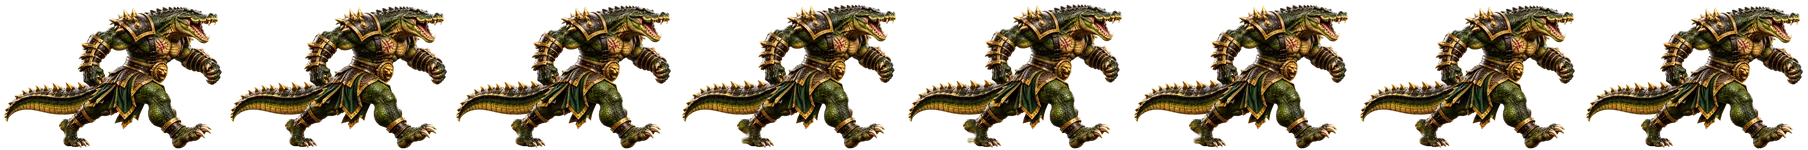
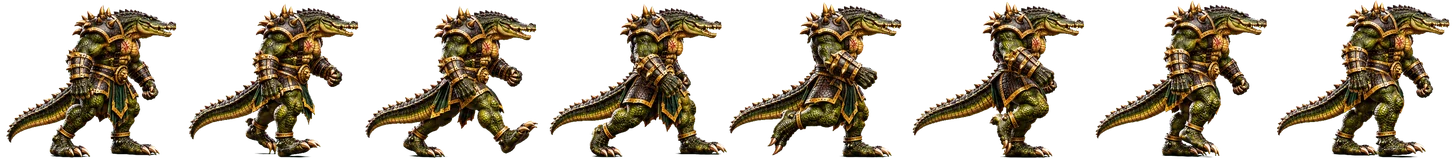
V2 preview 10.26: crocodile upgraded moves (not live)
Claude-Session: https://claude.ai/code/session_01Wp8cgZvzavvyA9CxcdgKRp

diff --git a/game/js/sprites-hd.js b/game/js/sprites-hd.js
@@ -1,2 +1,2 @@
 // High-detail fighter frames (frames-hd/), used on large/sharp screens. Same layout as SPRITES.
-const SPRITES_HD={"badger":{"s":2.0,"anims":{"idle":[16,363,425,20,211],"walk_forward":[8,301,413,70,205],"walk_back":[8,301,413,70,205],"run":[8,301,413,70,205],"block":[6,374,428,21,212],"attack_light":[8,423,419,103,208],"bite":[8,364,423,92,210],"claw_swipe":[6,423,419,103,208],"attack_heavy":[8,375,518,92,257],"uppercut":[8,423,419,103,208],"pounce":[8,364,423,92,210],"special_earth_slam":[7,375,518,92,257],"shadow_rampage":[10,423,419,103,208],"victory":[8,283,476,70,236],"jump":[7,370,409,96,203],"crouch":[4,370,409,96,203],"hit_light":[4,363,423,20,210],"hit_heavy":[6,363,423,20,210],"knockdown":[9,586,417,85,207],"knockdown_getup":[6,339,413,86,205],"defeat":[5,586,417,85,207]}},"crocodile":{"s":2.0,"anims":{"idle":[16,658,534,187,264],"walk_forward":[8,755,501,210,247],"walk_back":[8,755,501,210,247],"run":[8,755,501,210,247],"block":[6,617,527,168,261],"attack_light":[8,751,527,215,261],"bite":[8,682,533,187,264],"special_pounce":[6,751,527,215,261],"attack_heavy":[8,777,555,197,275],"uppercut":[7,777,555,197,275],"victory":[8,682,533,187,264],"jump":[7,617,527,168,261],"hit_light":[4,653,531,187,263],"hit_heavy":[6,653,531,187,263],"knockdown":[9,975,530,141,263],"knockdown_getup":[6,975,530,141,263],"defeat":[5,975,530,141,263]}},"elephant":{"s":2.0,"anims":{"idle":[16,725,684,177,339],"walk_forward":[8,788,690,175,341],"walk_back":[8,788,690,175,341],"run":[8,788,690,175,341],"block":[6,717,696,179,344],"attack_light":[8,1010,683,214,338],"bite":[8,768,683,185,338],"special_pounce":[6,1010,683,214,338],"attack_heavy":[8,1018,727,253,360],"uppercut":[7,1018,727,253,360],"victory":[8,768,683,185,338],"jump":[7,717,696,179,344],"hit_light":[4,724,682,178,337],"hit_heavy":[6,724,682,178,337],"knockdown":[9,1092,696,385,345],"knockdown_getup":[6,1092,696,385,345],"defeat":[5,1092,696,385,345]}},"grizzly":{"s":2.0,"anims":{"idle":[16,484,632,126,314],"walk_forward":[8,561,633,92,314],"walk_back":[8,561,633,92,314],"run":[8,561,633,92,314],"block":[6,518,624,129,310],"attack_light":[8,587,631,161,313],"bite":[8,511,630,132,313],"special_pounce":[6,587,631,161,313],"attack_heavy":[8,570,632,142,314],"uppercut":[7,570,632,142,314],"victory":[8,570,632,142,314],"jump":[7,518,624,129,310],"hit_light":[4,485,629,127,312],"hit_heavy":[6,485,629,127,312],"knockdown":[9,804,634,94,315],"knockdown_getup":[6,804,634,94,315],"defeat":[5,804,634,94,315]}},"hippo":{"s":2.0,"anims":{"idle":[16,743,653,181,323],"walk_forward":[8,458,633,110,313],"walk_back":[8,458,633,110,313],"run":[8,458,633,110,313],"block":[6,684,640,170,316],"attack_light":[8,1009,649,213,321],"bite":[8,788,652,189,323],"special_pounce":[6,1009,649,213,321],"attack_heavy":[8,571,745,156,369],"uppercut":[7,571,745,156,369],"victory":[8,486,742,120,368],"jump":[7,532,648,126,320],"hit_light":[4,747,650,184,322],"hit_heavy":[6,747,650,184,322],"knockdown":[9,1058,681,164,338],"knockdown_getup":[6,552,632,123,312],"defeat":[5,1058,681,164,338]}},"hyena":{"s":2.0,"anims":{"idle":[16,337,491,83,243],"walk_forward":[8,397,486,111,241],"walk_back":[8,397,486,111,241],"run":[8,397,486,111,241],"block":[6,400,486,100,241],"attack_light":[8,451,479,112,238],"bite":[8,355,489,87,243],"special_pounce":[6,355,489,87,243],"attack_heavy":[8,398,431,99,214],"uppercut":[7,451,479,112,238],"victory":[8,355,489,87,243],"jump":[7,400,486,100,241],"hit_light":[4,338,488,84,242],"hit_heavy":[6,338,488,84,242],"knockdown":[9,633,490,78,243],"knockdown_getup":[6,633,490,78,243],"defeat":[5,633,490,78,243]}},"jaguar":{"s":2.0,"anims":{"idle":[16,539,506,129,251],"walk_forward":[8,406,473,72,234],"walk_back":[8,406,473,72,234],"run":[8,406,473,72,234],"block":[6,354,501,25,248],"attack_light":[8,483,488,131,242],"bite":[8,558,504,129,250],"special_pounce":[6,483,488,131,242],"attack_heavy":[8,581,421,132,208],"uppercut":[7,581,421,132,208],"victory":[8,558,504,129,250],"jump":[7,354,501,25,248],"hit_light":[4,537,504,128,250],"hit_heavy":[6,537,504,128,250],"knockdown":[9,719,518,244,257],"knockdown_getup":[6,719,518,244,257],"defeat":[5,719,518,244,257]}},"leopard":{"s":2.0,"anims":{"idle":[16,471,515,22,255],"walk_forward":[8,307,485,87,240],"walk_back":[8,307,485,87,240],"run":[8,307,485,87,240],"dash":[4,307,485,87,240],"crouch":[3,428,517,102,256],"block":[6,443,509,31,253],"attack_light":[8,482,494,122,245],"bite":[8,482,514,22,255],"special_pounce":[6,482,494,122,245],"special_b":[8,482,514,22,255],"special_c":[5,482,494,122,245],"special_d":[14,482,494,122,245],"ultra_move":[5,452,555,97,276],"attack_heavy":[8,452,555,97,276],"uppercut":[7,452,555,97,276],"victory":[8,375,543,102,269],"jump":[7,428,517,102,256],"hit_light":[4,470,513,22,255],"hit_heavy":[6,470,513,22,255],"knockdown":[9,868,555,240,276],"knockdown_getup":[6,432,450,101,223],"defeat":[5,868,555,240,276]}},"lion":{"s":2.0,"anims":{"idle":[16,386,563,98,271],"walk_forward":[8,239,525,65,261],"walk_back":[8,239,525,65,261],"run":[8,239,525,65,261],"block":[6,382,412,96,204],"attack_light":[8,740,471,151,234],"bite":[8,740,471,151,234],"special_pounce":[6,740,471,151,234],"attack_heavy":[8,463,623,109,309],"uppercut":[7,463,623,109,309],"victory":[8,357,530,91,263],"jump":[7,452,422,111,209],"hit_light":[4,367,533,94,265],"hit_heavy":[6,367,533,94,265],"knockdown":[9,694,536,268,267],"knockdown_getup":[5,751,565,269,271],"defeat":[5,694,536,268,267]}},"tiger":{"s":2.0,"anims":{"idle":[16,499,538,126,267],"walk_forward":[8,508,526,125,261],"walk_back":[8,508,526,125,261],"run":[8,508,526,125,261],"block":[6,483,530,120,263],"attack_light":[8,520,524,132,260],"bite":[8,518,537,127,266],"special_pounce":[6,520,524,132,260],"attack_heavy":[8,713,548,164,272],"uppercut":[7,713,548,164,272],"victory":[8,459,544,114,270],"jump":[7,623,588,160,292],"hit_light":[4,496,536,126,266],"hit_heavy":[6,496,536,126,266],"knockdown":[9,750,543,261,270],"knockdown_getup":[6,600,526,141,261],"defeat":[5,750,543,261,270]}},"wolf":{"s":2.0,"anims":{"idle":[16,409,498,107,247],"walk_forward":[8,467,408,96,202],"walk_back":[8,467,408,96,202],"run":[8,467,408,96,202],"block":[6,404,490,104,244],"attack_light":[8,445,398,123,197],"bite":[8,447,340,119,168],"special_pounce":[6,447,340,119,168],"attack_heavy":[8,363,395,93,196],"uppercut":[7,363,395,93,196],"victory":[8,447,340,119,168],"jump":[7,404,490,104,244],"hit_light":[4,404,497,104,247],"hit_heavy":[6,404,497,104,247],"knockdown":[9,670,503,243,250],"knockdown_getup":[6,670,503,243,250],"defeat":[5,670,503,243,250]}},"majic":{"s":2.0,"anims":{"idle":[16,742,799,187,396],"walk_forward":[8,818,805,185,399],"walk_back":[8,818,805,185,399],"run":[8,818,805,185,399],"dash":[4,818,805,185,399],"crouch":[3,783,702,200,348],"block":[6,739,792,62,393],"attack_light":[8,808,714,216,354],"bite":[8,773,798,193,396],"special_pounce":[6,773,798,193,396],"special_b":[6,808,714,216,354],"special_c":[5,773,798,193,396],"special_d":[5,749,763,180,379],"ultra_move":[10,808,714,216,354],"attack_heavy":[8,749,763,180,379],"uppercut":[7,749,763,180,379],"victory":[8,823,812,205,403],"jump":[7,783,702,200,348],"hit_light":[4,746,795,190,395],"hit_heavy":[6,746,795,190,395],"knockdown":[9,1082,819,398,407],"knockdown_getup":[6,793,780,206,387],"defeat":[5,1082,819,398,407]}},"snake":{"s":2.0,"anims":{"idle":[16,498,552,122,274],"walk_forward":[8,525,525,147,261],"walk_back":[8,525,525,147,261],"run":[8,525,525,147,261],"crouch":[3,533,495,126,245],"block":[6,469,547,25,272],"attack_light":[8,532,537,123,267],"bite":[8,498,551,122,274],"special_pounce":[6,498,551,122,274],"special_b":[6,532,537,123,267],"special_c":[5,498,551,122,274],"special_d":[5,600,546,143,271],"ultra_move":[10,532,537,123,267],"attack_heavy":[8,600,546,143,271],"uppercut":[7,600,546,143,271],"victory":[8,412,570,105,283],"jump":[7,533,495,126,245],"hit_light":[4,498,550,122,273],"hit_heavy":[6,498,550,122,273],"knockdown":[9,778,548,271,272],"knockdown_getup":[6,609,538,125,267],"defeat":[5,778,548,271,272]}},"eagle":{"s":2.0,"anims":{"idle":[16,486,526,121,261],"walk_forward":[8,478,518,190,257],"walk_back":[8,478,518,190,257],"run":[8,478,518,190,257],"crouch":[3,483,520,108,258],"block":[6,483,520,108,258],"attack_light":[8,500,526,124,261],"bite":[8,502,525,125,260],"special_pounce":[6,502,525,125,260],"special_b":[6,500,526,124,261],"ultra_move":[10,500,526,124,261],"attack_heavy":[8,497,530,123,263],"uppercut":[7,497,530,123,263],"victory":[8,486,526,121,261],"jump":[7,483,520,108,258],"hit_light":[4,487,522,122,259],"hit_heavy":[6,487,522,122,259],"knockdown":[9,692,536,255,266],"knockdown_getup":[6,692,536,255,266],"defeat":[5,692,536,255,266]}},"stag":{"s":2.0,"anims":{"idle":[16,341,572,85,283],"walk_forward":[8,450,569,111,282],"walk_back":[8,450,569,111,282],"run":[8,450,569,111,282],"crouch":[3,543,734,154,365],"block":[6,453,553,113,274],"attack_light":[8,539,540,118,268],"bite":[8,358,571,85,283],"special_pounce":[6,358,571,85,283],"special_b":[6,539,540,118,268],"special_c":[5,358,571,85,283],"special_d":[5,453,612,113,304],"ultra_move":[10,539,540,118,268],"attack_heavy":[8,453,612,113,304],"uppercut":[7,453,612,113,304],"victory":[8,512,565,127,280],"jump":[7,543,734,154,365],"hit_light":[4,341,570,85,282],"hit_heavy":[6,341,570,85,282],"knockdown":[9,734,584,285,290],"knockdown_getup":[6,507,558,164,277],"defeat":[5,734,584,285,290]}}};
+const SPRITES_HD={"badger":{"s":2.0,"anims":{"idle":[16,363,425,20,211],"walk_forward":[8,301,413,70,205],"walk_back":[8,301,413,70,205],"run":[8,301,413,70,205],"block":[6,374,428,21,212],"attack_light":[8,423,419,103,208],"bite":[8,364,423,92,210],"claw_swipe":[6,423,419,103,208],"attack_heavy":[8,375,518,92,257],"uppercut":[8,423,419,103,208],"pounce":[8,364,423,92,210],"special_earth_slam":[7,375,518,92,257],"shadow_rampage":[10,423,419,103,208],"victory":[8,283,476,70,236],"jump":[7,370,409,96,203],"crouch":[4,370,409,96,203],"hit_light":[4,363,423,20,210],"hit_heavy":[6,363,423,20,210],"knockdown":[9,586,417,85,207],"knockdown_getup":[6,339,413,86,205],"defeat":[5,586,417,85,207]}},"crocodile":{"s":2.0,"anims":{"idle":[16,658,534,187,264],"walk_forward":[8,608,531,178,263],"walk_back":[8,608,531,178,263],"run":[8,608,531,178,263],"block":[6,617,527,168,261],"attack_light":[8,751,527,215,261],"bite":[8,682,533,187,264],"special_pounce":[6,751,527,215,261],"attack_heavy":[8,848,567,214,281],"uppercut":[7,848,567,214,281],"victory":[8,559,554,150,274],"jump":[7,794,476,233,235],"hit_light":[4,653,531,187,263],"hit_heavy":[6,653,531,187,263],"knockdown":[9,975,530,141,263],"knockdown_getup":[6,1340,513,355,254],"defeat":[5,975,530,141,263]}},"elephant":{"s":2.0,"anims":{"idle":[16,725,684,177,339],"walk_forward":[8,788,690,175,341],"walk_back":[8,788,690,175,341],"run":[8,788,690,175,341],"block":[6,717,696,179,344],"attack_light":[8,1010,683,214,338],"bite":[8,768,683,185,338],"special_pounce":[6,1010,683,214,338],"attack_heavy":[8,1018,727,253,360],"uppercut":[7,1018,727,253,360],"victory":[8,768,683,185,338],"jump":[7,717,696,179,344],"hit_light":[4,724,682,178,337],"hit_heavy":[6,724,682,178,337],"knockdown":[9,1092,696,385,345],"knockdown_getup":[6,1092,696,385,345],"defeat":[5,1092,696,385,345]}},"grizzly":{"s":2.0,"anims":{"idle":[16,484,632,126,314],"walk_forward":[8,561,633,92,314],"walk_back":[8,561,633,92,314],"run":[8,561,633,92,314],"block":[6,518,624,129,310],"attack_light":[8,587,631,161,313],"bite":[8,511,630,132,313],"special_pounce":[6,587,631,161,313],"attack_heavy":[8,570,632,142,314],"uppercut":[7,570,632,142,314],"victory":[8,570,632,142,314],"jump":[7,518,624,129,310],"hit_light":[4,485,629,127,312],"hit_heavy":[6,485,629,127,312],"knockdown":[9,804,634,94,315],"knockdown_getup":[6,804,634,94,315],"defeat":[5,804,634,94,315]}},"hippo":{"s":2.0,"anims":{"idle":[16,743,653,181,323],"walk_forward":[8,458,633,110,313],"walk_back":[8,458,633,110,313],"run":[8,458,633,110,313],"block":[6,684,640,170,316],"attack_light":[8,1009,649,213,321],"bite":[8,788,652,189,323],"special_pounce":[6,1009,649,213,321],"attack_heavy":[8,571,745,156,369],"uppercut":[7,571,745,156,369],"victory":[8,486,742,120,368],"jump":[7,532,648,126,320],"hit_light":[4,747,650,184,322],"hit_heavy":[6,747,650,184,322],"knockdown":[9,1058,681,164,338],"knockdown_getup":[6,552,632,123,312],"defeat":[5,1058,681,164,338]}},"hyena":{"s":2.0,"anims":{"idle":[16,337,491,83,243],"walk_forward":[8,397,486,111,241],"walk_back":[8,397,486,111,241],"run":[8,397,486,111,241],"block":[6,400,486,100,241],"attack_light":[8,451,479,112,238],"bite":[8,355,489,87,243],"special_pounce":[6,355,489,87,243],"attack_heavy":[8,398,431,99,214],"uppercut":[7,451,479,112,238],"victory":[8,355,489,87,243],"jump":[7,400,486,100,241],"hit_light":[4,338,488,84,242],"hit_heavy":[6,338,488,84,242],"knockdown":[9,633,490,78,243],"knockdown_getup":[6,633,490,78,243],"defeat":[5,633,490,78,243]}},"jaguar":{"s":2.0,"anims":{"idle":[16,539,506,129,251],"walk_forward":[8,406,473,72,234],"walk_back":[8,406,473,72,234],"run":[8,406,473,72,234],"block":[6,354,501,25,248],"attack_light":[8,483,488,131,242],"bite":[8,558,504,129,250],"special_pounce":[6,483,488,131,242],"attack_heavy":[8,581,421,132,208],"uppercut":[7,581,421,132,208],"victory":[8,558,504,129,250],"jump":[7,354,501,25,248],"hit_light":[4,537,504,128,250],"hit_heavy":[6,537,504,128,250],"knockdown":[9,719,518,244,257],"knockdown_getup":[6,719,518,244,257],"defeat":[5,719,518,244,257]}},"leopard":{"s":2.0,"anims":{"idle":[16,471,515,22,255],"walk_forward":[8,307,485,87,240],"walk_back":[8,307,485,87,240],"run":[8,307,485,87,240],"dash":[4,307,485,87,240],"crouch":[3,428,517,102,256],"block":[6,443,509,31,253],"attack_light":[8,482,494,122,245],"bite":[8,482,514,22,255],"special_pounce":[6,482,494,122,245],"special_b":[8,482,514,22,255],"special_c":[5,482,494,122,245],"special_d":[14,482,494,122,245],"ultra_move":[5,452,555,97,276],"attack_heavy":[8,452,555,97,276],"uppercut":[7,452,555,97,276],"victory":[8,375,543,102,269],"jump":[7,428,517,102,256],"hit_light":[4,470,513,22,255],"hit_heavy":[6,470,513,22,255],"knockdown":[9,868,555,240,276],"knockdown_getup":[6,432,450,101,223],"defeat":[5,868,555,240,276]}},"lion":{"s":2.0,"anims":{"idle":[16,386,563,98,271],"walk_forward":[8,239,525,65,261],"walk_back":[8,239,525,65,261],"run":[8,239,525,65,261],"block":[6,382,412,96,204],"attack_light":[8,740,471,151,234],"bite":[8,740,471,151,234],"special_pounce":[6,740,471,151,234],"attack_heavy":[8,463,623,109,309],"uppercut":[7,463,623,109,309],"victory":[8,357,530,91,263],"jump":[7,452,422,111,209],"hit_light":[4,367,533,94,265],"hit_heavy":[6,367,533,94,265],"knockdown":[9,694,536,268,267],"knockdown_getup":[5,751,565,269,271],"defeat":[5,694,536,268,267]}},"tiger":{"s":2.0,"anims":{"idle":[16,499,538,126,267],"walk_forward":[8,508,526,125,261],"walk_back":[8,508,526,125,261],"run":[8,508,526,125,261],"block":[6,483,530,120,263],"attack_light":[8,520,524,132,260],"bite":[8,518,537,127,266],"special_pounce":[6,520,524,132,260],"attack_heavy":[8,713,548,164,272],"uppercut":[7,713,548,164,272],"victory":[8,459,544,114,270],"jump":[7,623,588,160,292],"hit_light":[4,496,536,126,266],"hit_heavy":[6,496,536,126,266],"knockdown":[9,750,543,261,270],"knockdown_getup":[6,600,526,141,261],"defeat":[5,750,543,261,270]}},"wolf":{"s":2.0,"anims":{"idle":[16,409,498,107,247],"walk_forward":[8,467,408,96,202],"walk_back":[8,467,408,96,202],"run":[8,467,408,96,202],"block":[6,404,490,104,244],"attack_light":[8,445,398,123,197],"bite":[8,447,340,119,168],"special_pounce":[6,447,340,119,168],"attack_heavy":[8,363,395,93,196],"uppercut":[7,363,395,93,196],"victory":[8,447,340,119,168],"jump":[7,404,490,104,244],"hit_light":[4,404,497,104,247],"hit_heavy":[6,404,497,104,247],"knockdown":[9,670,503,243,250],"knockdown_getup":[6,670,503,243,250],"defeat":[5,670,503,243,250]}},"majic":{"s":2.0,"anims":{"idle":[16,742,799,187,396],"walk_forward":[8,818,805,185,399],"walk_back":[8,818,805,185,399],"run":[8,818,805,185,399],"dash":[4,818,805,185,399],"crouch":[3,783,702,200,348],"block":[6,739,792,62,393],"attack_light":[8,808,714,216,354],"bite":[8,773,798,193,396],"special_pounce":[6,773,798,193,396],"special_b":[6,808,714,216,354],"special_c":[5,773,798,193,396],"special_d":[5,749,763,180,379],"ultra_move":[10,808,714,216,354],"attack_heavy":[8,749,763,180,379],"uppercut":[7,749,763,180,379],"victory":[8,823,812,205,403],"jump":[7,783,702,200,348],"hit_light":[4,746,795,190,395],"hit_heavy":[6,746,795,190,395],"knockdown":[9,1082,819,398,407],"knockdown_getup":[6,793,780,206,387],"defeat":[5,1082,819,398,407]}},"snake":{"s":2.0,"anims":{"idle":[16,498,552,122,274],"walk_forward":[8,525,525,147,261],"walk_back":[8,525,525,147,261],"run":[8,525,525,147,261],"crouch":[3,533,495,126,245],"block":[6,469,547,25,272],"attack_light":[8,532,537,123,267],"bite":[8,498,551,122,274],"special_pounce":[6,498,551,122,274],"special_b":[6,532,537,123,267],"special_c":[5,498,551,122,274],"special_d":[5,600,546,143,271],"ultra_move":[10,532,537,123,267],"attack_heavy":[8,600,546,143,271],"uppercut":[7,600,546,143,271],"victory":[8,412,570,105,283],"jump":[7,533,495,126,245],"hit_light":[4,498,550,122,273],"hit_heavy":[6,498,550,122,273],"knockdown":[9,778,548,271,272],"knockdown_getup":[6,609,538,125,267],"defeat":[5,778,548,271,272]}},"eagle":{"s":2.0,"anims":{"idle":[16,486,526,121,261],"walk_forward":[8,478,518,190,257],"walk_back":[8,478,518,190,257],"run":[8,478,518,190,257],"crouch":[3,483,520,108,258],"block":[6,483,520,108,258],"attack_light":[8,500,526,124,261],"bite":[8,502,525,125,260],"special_pounce":[6,502,525,125,260],"special_b":[6,500,526,124,261],"ultra_move":[10,500,526,124,261],"attack_heavy":[8,497,530,123,263],"uppercut":[7,497,530,123,263],"victory":[8,486,526,121,261],"jump":[7,483,520,108,258],"hit_light":[4,487,522,122,259],"hit_heavy":[6,487,522,122,259],"knockdown":[9,692,536,255,266],"knockdown_getup":[6,692,536,255,266],"defeat":[5,692,536,255,266]}},"stag":{"s":2.0,"anims":{"idle":[16,341,572,85,283],"walk_forward":[8,450,569,111,282],"walk_back":[8,450,569,111,282],"run":[8,450,569,111,282],"crouch":[3,543,734,154,365],"block":[6,453,553,113,274],"attack_light":[8,539,540,118,268],"bite":[8,358,571,85,283],"special_pounce":[6,358,571,85,283],"special_b":[6,539,540,118,268],"special_c":[5,358,571,85,283],"special_d":[5,453,612,113,304],"ultra_move":[10,539,540,118,268],"attack_heavy":[8,453,612,113,304],"uppercut":[7,453,612,113,304],"victory":[8,512,565,127,280],"jump":[7,543,734,154,365],"hit_light":[4,341,570,85,282],"hit_heavy":[6,341,570,85,282],"knockdown":[9,734,584,285,290],"knockdown_getup":[6,507,558,164,277],"defeat":[5,734,584,285,290]}}};

diff --git a/game/js/game.js b/game/js/game.js
@@ -1676,9 +1676,9 @@ const SPRITES={
  badger:{s:0.6,anims:{"idle":[16,109,127,20,211],"walk_forward":[8,90,124,70,205],"walk_back":[8,90,124,70,205],"run":[8,90,124,70,205],"block":[6,112,128,21,212],"attack_light":[8,127,126,103,208],"bite":[8,109,127,92,210],"claw_swipe":[6,127,126,103,208],"attack_heavy":[8,113,155,92,257],"uppercut":[8,127,126,103,208],"pounce":[8,109,127,92,210],"special_earth_slam":[7,113,155,92,257],"shadow_rampage":[10,127,126,103,208],"victory":[8,85,143,70,236],"jump":[7,111,123,96,203],"crouch":[4,111,123,96,203],"hit_light":[4,109,127,20,210],"hit_heavy":[6,109,127,20,210],"knockdown":[9,176,125,85,207],"knockdown_getup":[6,102,124,86,205],"defeat":[5,176,125,85,207]},
   claw:'claw_swipe',double:['attack_heavy','claw_swipe'],special:'special_earth_slam',shadow:'shadow_rampage',ultra:['attack_light','attack_heavy','uppercut','claw_swipe'],
   fall:['knockdown',[0,1,2,3,4,5]],getup:['knockdown_getup',[0,1,2,3,4,5]],ko:['knockdown',8]},
- crocodile:{s:0.6,anims:{"idle":[16,197,160,187,264],"walk_forward":[8,226,150,210,247],"walk_back":[8,226,150,210,247],"run":[8,226,150,210,247],"block":[6,185,158,168,261],"attack_light":[8,225,158,215,261],"bite":[8,205,160,187,264],"special_pounce":[6,225,158,215,261],"attack_heavy":[8,233,167,197,275],"uppercut":[7,233,167,197,275],"victory":[8,205,160,187,264],"jump":[7,185,158,168,261],"hit_light":[4,196,159,187,263],"hit_heavy":[6,196,159,187,263],"knockdown":[9,292,159,141,263],"knockdown_getup":[6,292,159,141,263],"defeat":[5,292,159,141,263]},
+ crocodile:{s:0.6,anims:{"idle":[16,197,160,187,264],"walk_forward":[8,182,159,178,263],"walk_back":[8,182,159,178,263],"run":[8,182,159,178,263],"block":[6,185,158,168,261],"attack_light":[8,225,158,215,261],"bite":[8,205,160,187,264],"special_pounce":[6,225,158,215,261],"attack_heavy":[8,254,170,214,281],"uppercut":[7,254,170,214,281],"victory":[8,168,166,150,274],"jump":[7,238,143,233,235],"hit_light":[4,196,159,187,263],"hit_heavy":[6,196,159,187,263],"knockdown":[9,292,159,141,263],"knockdown_getup":[6,402,154,355,254],"defeat":[5,292,159,141,263]},
   double:['bite','attack_heavy'],special:'special_pounce',shadow:null,ultra:['bite','attack_heavy','bite','uppercut'],
-  fall:['knockdown',[0,1,2,3,4,5]],getup:['knockdown',[7,3,2,1,0]],ko:['knockdown',8]},
+  fall:['knockdown',[0,1,2,3,4,5]],getup:['knockdown_getup',[0,1,2,3,4,5]],ko:['knockdown',8]},
  elephant:{s:0.6,anims:{"idle":[16,218,205,177,339],"walk_forward":[8,236,207,175,341],"walk_back":[8,236,207,175,341],"run":[8,236,207,175,341],"block":[6,215,209,179,344],"attack_light":[8,303,205,214,338],"bite":[8,230,205,185,338],"special_pounce":[6,303,205,214,338],"attack_heavy":[8,305,218,253,360],"uppercut":[7,305,218,253,360],"victory":[8,230,205,185,338],"jump":[7,215,209,179,344],"hit_light":[4,217,204,178,337],"hit_heavy":[6,217,204,178,337],"knockdown":[9,327,209,385,345],"knockdown_getup":[6,327,209,385,345],"defeat":[5,327,209,385,345]},
   double:['attack_heavy','bite'],special:'special_pounce',shadow:null,ultra:['attack_heavy','bite','attack_heavy','uppercut'],
   fall:['knockdown',[0,1,2,3,4,5]],getup:['knockdown',[7,3,2,1,0]],ko:['knockdown',8]},
@@ -1707,11 +1707,11 @@ const SPRITES={
   double:['attack_heavy','attack_light'],special:'special_pounce',shadow:null,ultra:['attack_light','attack_heavy','uppercut','bite'],
   fall:['knockdown',[0,1,2,3,4,5]],getup:['knockdown',[7,3,2,1,0]],ko:['knockdown',8]}
 };
-const spriteImg={};for(const id in SPRITES){spriteImg[id]={};for(const k in SPRITES[id].anims){const im=new Image();im.src='assets/characters/'+id+'/frames/'+k+'.webp?v=10.25';spriteImg[id][k]=im}}
+const spriteImg={};for(const id in SPRITES){spriteImg[id]={};for(const k in SPRITES[id].anims){const im=new Image();im.src='assets/characters/'+id+'/frames/'+k+'.webp?v=10.26';spriteImg[id][k]=im}}
 // High-detail art for big, sharp screens (laptops, TVs, 4K): loaded per fight, only for the two fighters in it.
 const HD=typeof SPRITES_HD!=='undefined'?SPRITES_HD:{},spriteHD={};
 function wantHD(){const r=$('game-canvas').getBoundingClientRect(),d=Math.min(window.devicePixelRatio||1,3);return r.height*d>=560}
-function loadHD(id){if(!HD[id]||spriteHD[id])return;spriteHD[id]={};for(const k in HD[id].anims){const im=new Image();im.decoding='async';im.src='assets/characters/'+id+'/frames-hd/'+k+'.webp?v=10.25';spriteHD[id][k]=im}}
+function loadHD(id){if(!HD[id]||spriteHD[id])return;spriteHD[id]={};for(const k in HD[id].anims){const im=new Image();im.decoding='async';im.src='assets/characters/'+id+'/frames-hd/'+k+'.webp?v=10.26';spriteHD[id][k]=im}}
 const c=$('game-canvas').getContext('2d');
 function draw(){
  const canvas=$('game-canvas'),rect=canvas.getBoundingClientRect(),dpr=Math.min(window.devicePixelRatio||1,3),w=1100,h=520;

diff --git a/game/index.html b/game/index.html
@@ -17,7 +17,7 @@
   s.addEventListener('pointerdown',go);addEventListener('keydown',function(e){if(!done){go(e)}},{capture:true,once:true});(function pad(){if(done)return;var g=navigator.getGamepads?[].slice.call(navigator.getGamepads()):[];if(g.some(function(x){return x&&x.buttons.some(function(b){return b.pressed})})){go();return}requestAnimationFrame(pad)})()})();</script>
   <div id="backdrop" aria-hidden="true"><div class="bd-img bd-a"></div><div class="bd-img bd-b"></div><div class="bd-rays"></div><div class="bd-vignette"></div><canvas id="bd-embers"></canvas></div>
   <main id="app">
-    <header class="topbar"><img class="brand-crown" src="assets/ui/crown.webp" alt=""><div><div class="eyebrow">A LEGACY UNLEASHED</div><h1>KING OF THE JUNGLE</h1></div><div class="build-tag">V2 PREVIEW · 10.25 (not live)</div></header>
+    <header class="topbar"><img class="brand-crown" src="assets/ui/crown.webp" alt=""><div><div class="eyebrow">A LEGACY UNLEASHED</div><h1>KING OF THE JUNGLE</h1></div><div class="build-tag">V2 PREVIEW · 10.26 (not live)</div></header>
     <section id="menu" class="screen cover">
       <div class="cover-bg"></div><div class="cover-rays"></div><canvas id="embers" class="cover-embers"></canvas><div class="cover-vignette"></div>
       <div class="cover-hero"><div class="hero-glow"></div><img src="assets/characters/lion/lion-hero.webp" alt="The Lion, King of the Jungle"></div>
@@ -42,7 +42,7 @@
         </div>
       </div>
       <div class="cover-roster"><span>11 FIGHTERS · ONE THRONE</span><div id="cover-faces"></div></div>
-      <div class="cover-meta"><span id="cover-build">V2 PREVIEW · 10.25 (not live)</span><span>© King of the Jungle · J. Hardy</span></div>
+      <div class="cover-meta"><span id="cover-build">V2 PREVIEW · 10.26 (not live)</span><span>© King of the Jungle · J. Hardy</span></div>
     </section>
     <section id="select" class="screen hidden v2sel">
       <div class="select-title"><img class="st-crown" src="assets/ui/crown.webp" alt=""><h2 class="st-main">KING <small>OF THE</small> JUNGLE</h2><p class="st-sub">CHARACTER SELECT</p><p id="select-instruction">Player 1: choose a fighter</p></div>
@@ -114,7 +114,7 @@
     </section>
     <footer><span>© KING OF THE JUNGLE</span><span>Created and Developed by J. Hardy</span></footer>
   </main>
-  <script src="js/roster.js?v=7.1"></script><script src="js/story.js?v=7.7"></script><script src="js/sprites-hd.js?v=10.25"></script><script src="js/audio.js?v=9.12"></script><script src="js/hitboxes.js?v=8.0"></script><script src="js/net.js?v=7.1"></script><script src="js/game.js?v=10.25"></script>
+  <script src="js/roster.js?v=7.1"></script><script src="js/story.js?v=7.7"></script><script src="js/sprites-hd.js?v=10.26"></script><script src="js/audio.js?v=9.12"></script><script src="js/hitboxes.js?v=8.0"></script><script src="js/net.js?v=7.1"></script><script src="js/game.js?v=10.26"></script>
 <script>(function(){var last=0;
 document.addEventListener('gesturestart',function(e){e.preventDefault()},{passive:false});
 document.addEventListener('gesturechange',function(e){e.preventDefault()},{passive:false});
